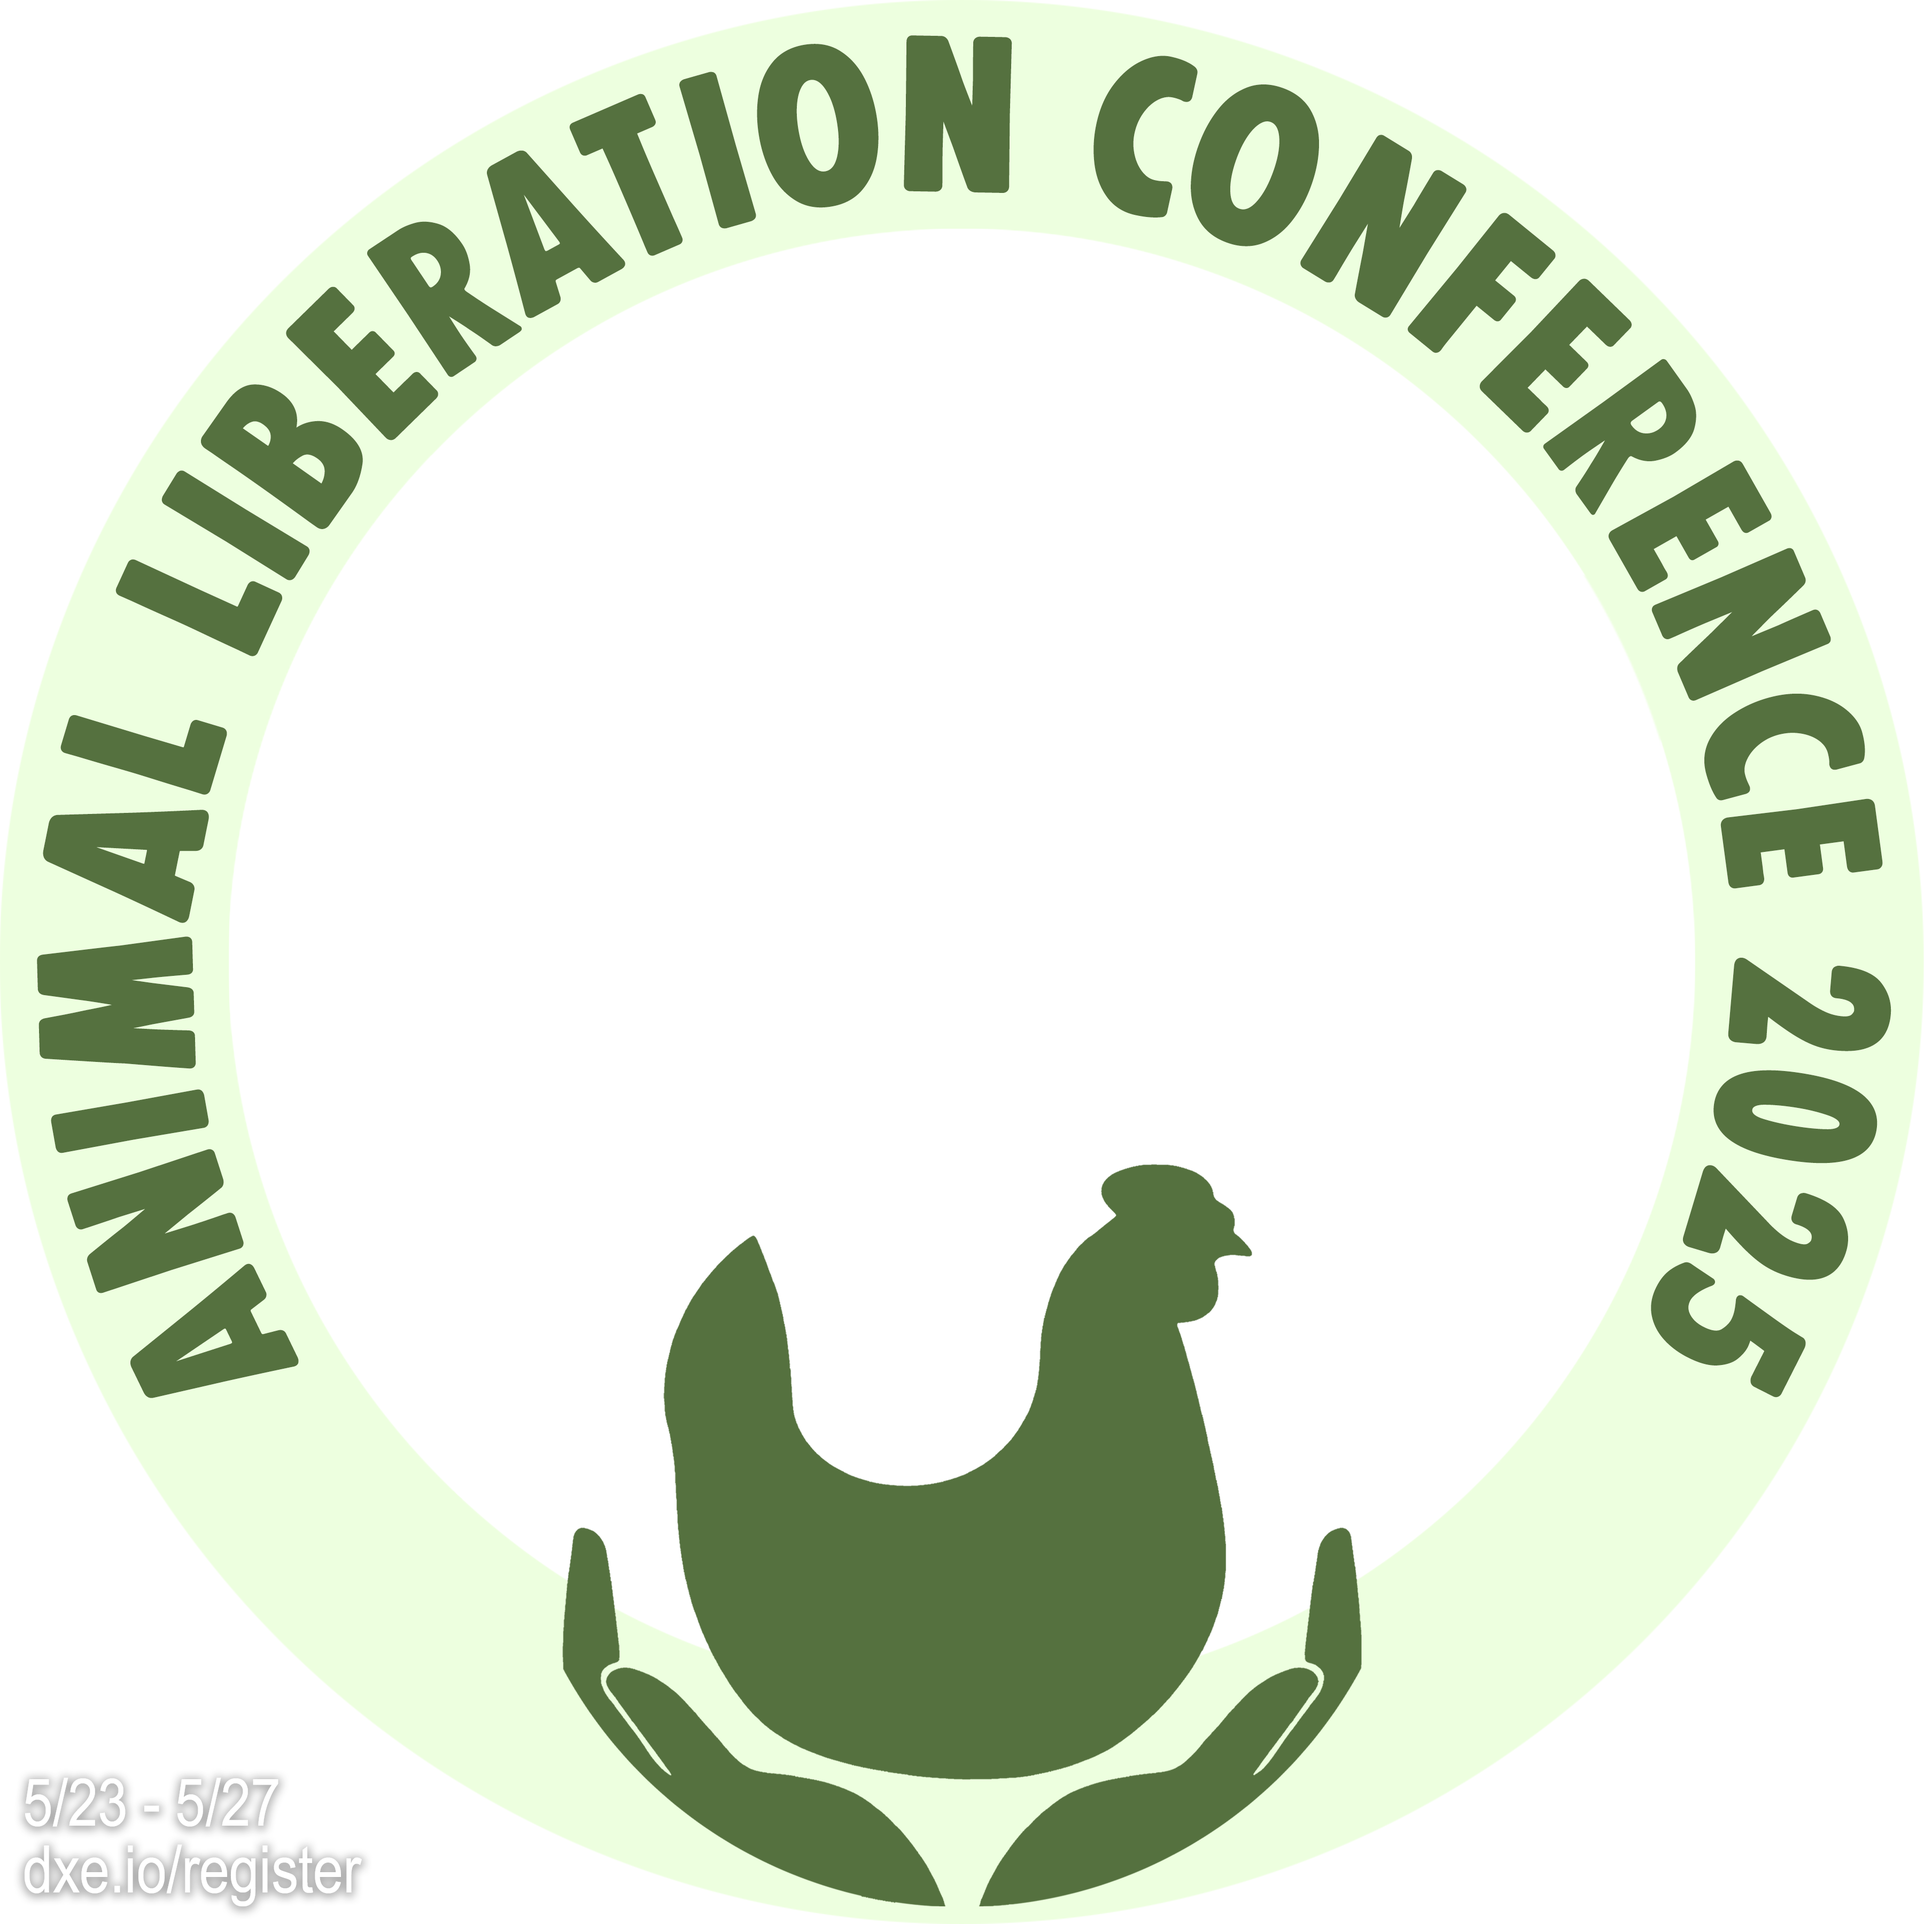
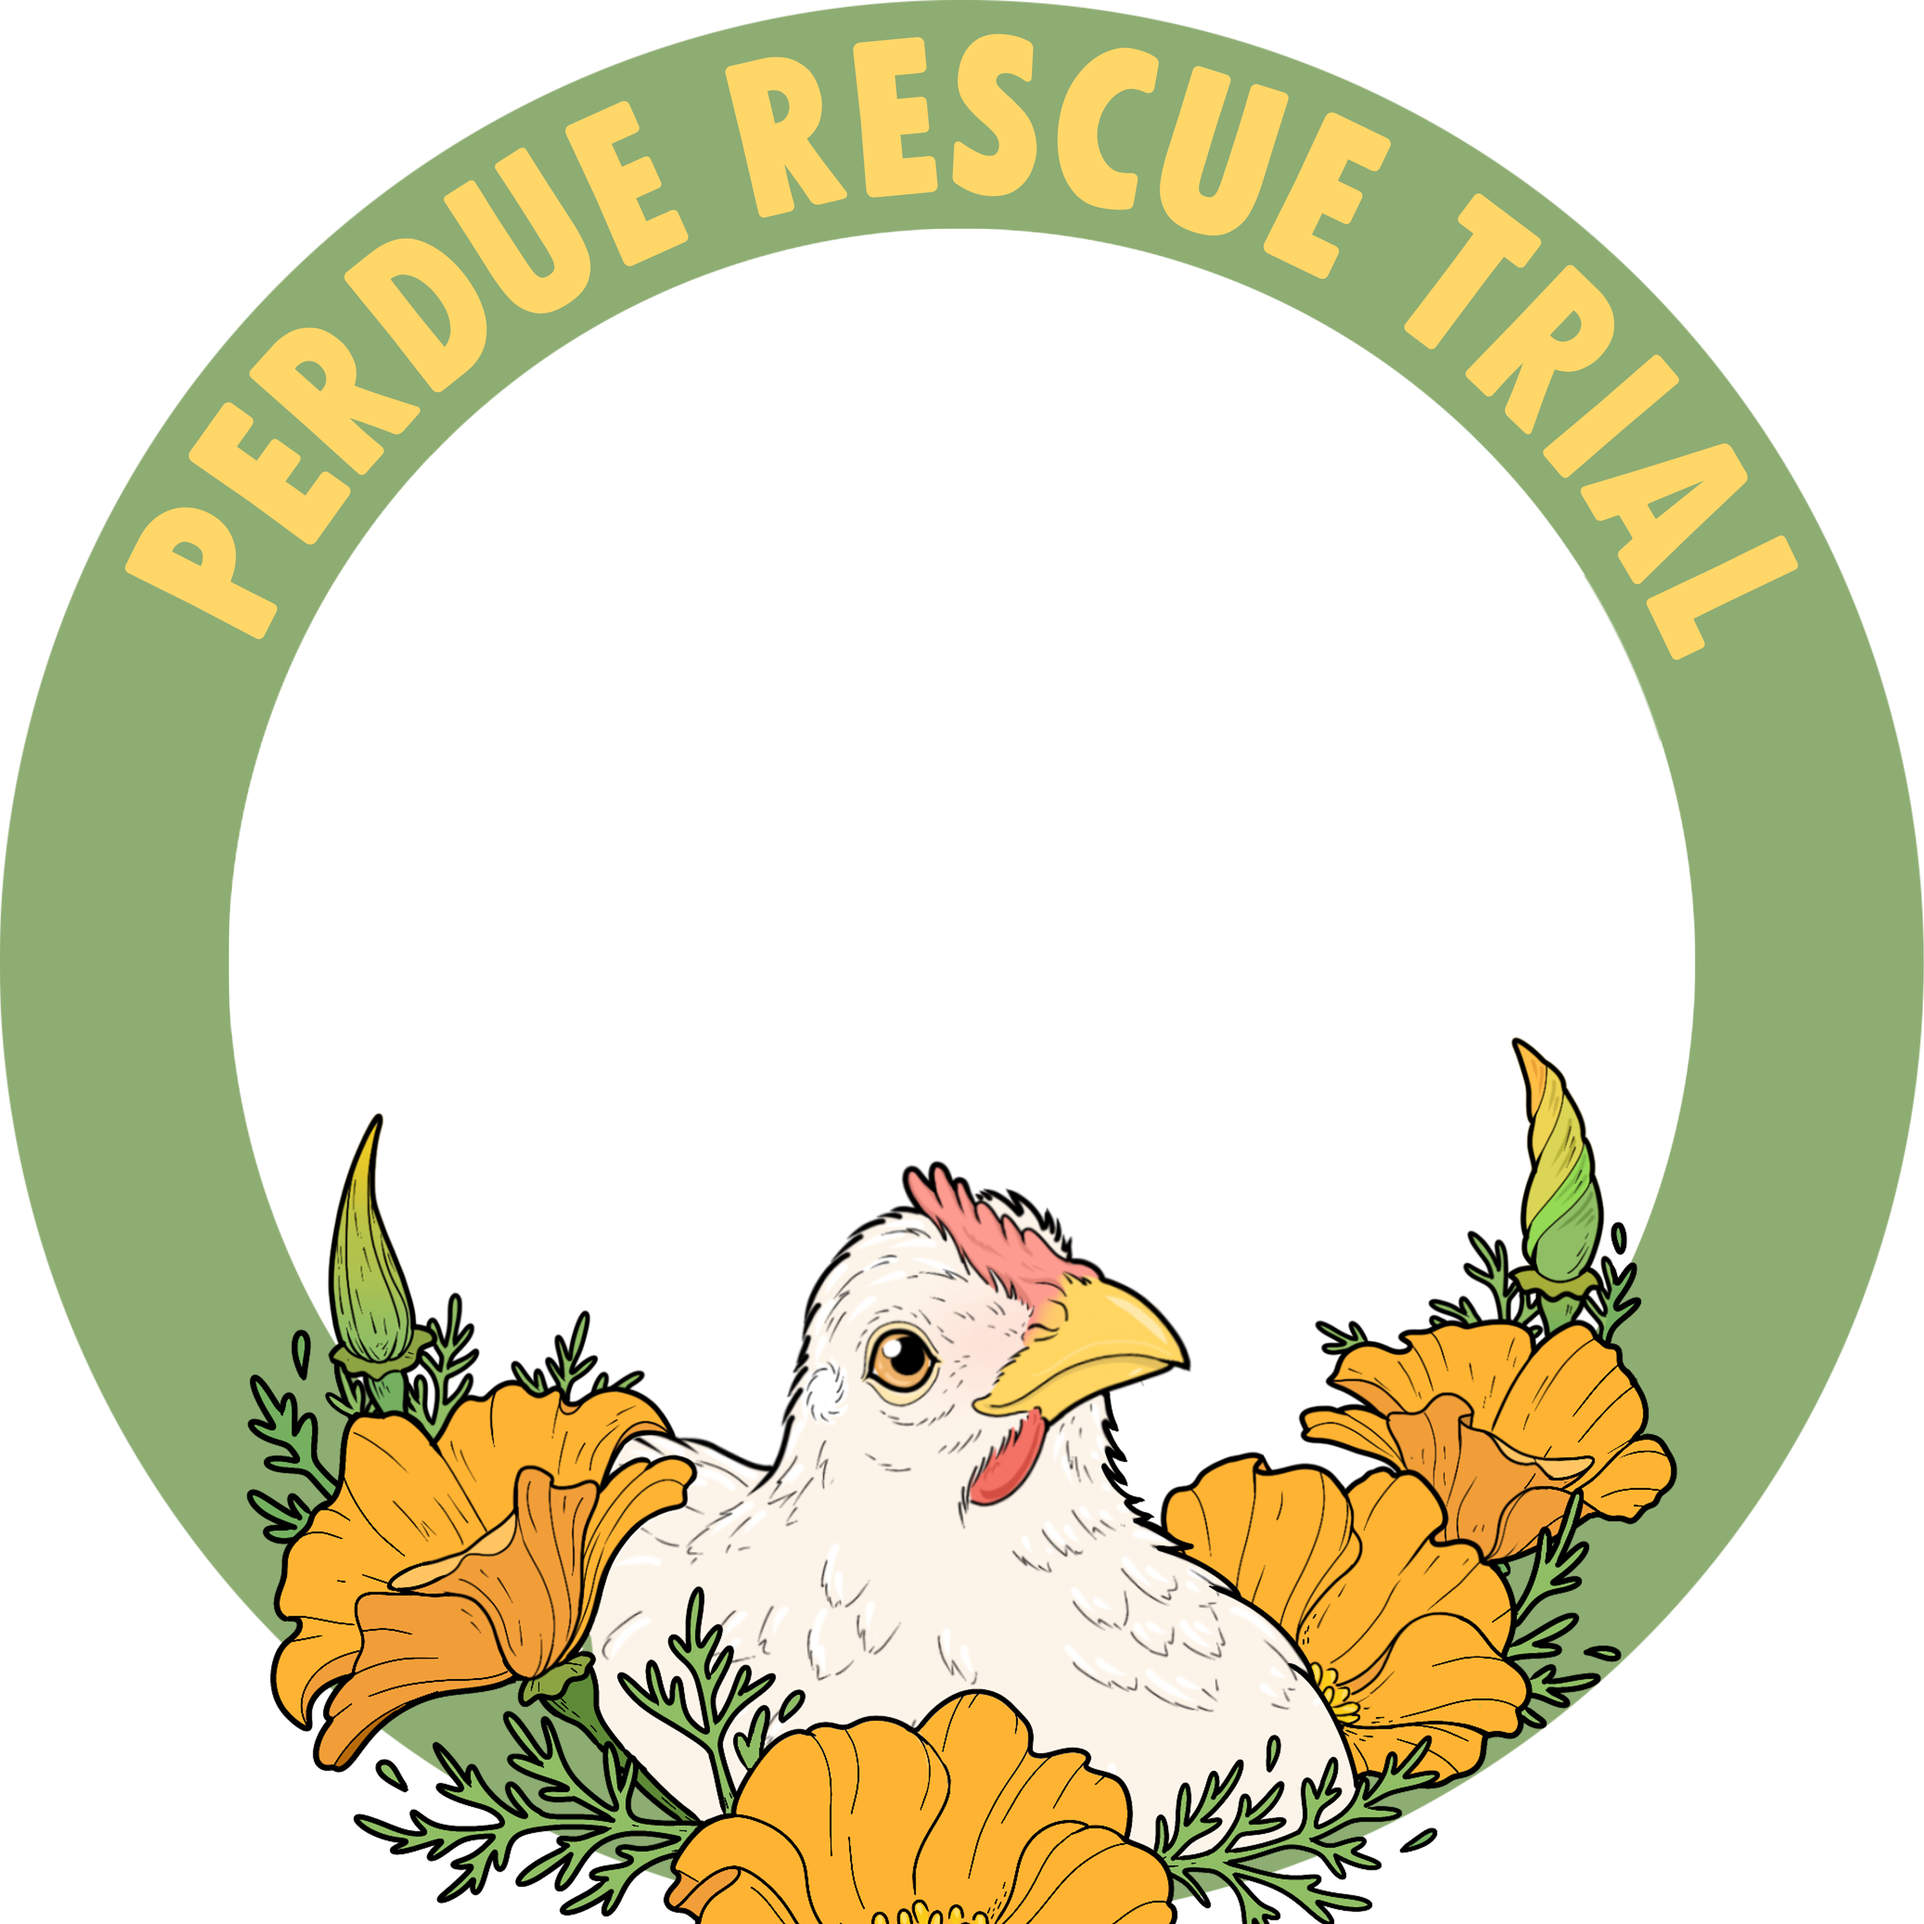
Set to Perdue Trial frame and upgrade to Ruby 3.4

diff --git a/_includes/steps.html b/_includes/steps.html
@@ -27,7 +27,7 @@
             {% for image in site.static_files %}
                 {% if image.path contains 'previews/' %}
                     {% assign imagepath = image.path | split: "/" | last %}
-                    <img id="frame-{{ image.basename | split: '-' | last }}" class="object-contain w-full max-w-6 rounded-full border-2 border-gray-100 inline-block shadow-xl transition duration-300 ease-in-out cursor-pointer hover:border-primary" src="img/previews/{{ image.name }}?v=6" alt="">
+                    <img id="frame-{{ image.basename | split: '-' | last }}" class="object-contain w-full max-w-6 rounded-full border-2 border-gray-100 inline-block shadow-xl transition duration-300 ease-in-out cursor-pointer hover:border-primary" src="img/previews/{{ image.name }}?v=7" alt="">
                 {% endif %}
             {% endfor %}
         </div>

diff --git a/src/js/main.js b/src/js/main.js
@@ -55,7 +55,7 @@ document.addEventListener("DOMContentLoaded", function(){
       'object:rotating': updateControls,
     });
 
-    canvas.setOverlayImage("{{ 'img/frames/frame-1.png?v=6' }}" , function() {
+    canvas.setOverlayImage("{{ 'img/frames/frame-1.png?v=7' }}" , function() {
         canvas.overlayImage.scaleToWidth(canvas.getWidth())
         canvas.renderAll()
       }, {
@@ -130,7 +130,7 @@ document.addEventListener("DOMContentLoaded", function(){
   {% for image in site.static_files %}
       {% if image.path contains 'frames/' %}
           document.getElementById("{{ image.basename }}").addEventListener("click", function (){
-            changeFrame(canvas, '{{ image.path }}?v=6');
+            changeFrame(canvas, '{{ image.path }}?v=7');
           });
       {% endif %}
   {% endfor %}

diff --git a/_includes/head.html b/_includes/head.html
@@ -3,7 +3,7 @@
   <meta name="viewport" content="width=device-width, initial-scale=1, shrink-to-fit=no" />
 
   <link rel="stylesheet" href="dist/css/styles.css" />
-  <script src="dist/js/bundle.js?v=6"></script>
+  <script src="dist/js/bundle.js?v=7"></script>
 
   <title>{{ site.title }}</title>
   <meta name="description" content="{{ site.description }}">

diff --git a/README-DxE.md b/README-DxE.md
@@ -12,6 +12,8 @@ instructions for deploying to AWS S3.
 
 ```bash
 # Remember to update cachebust args!
+pnpm install # only needed first time
+bundle install # only needed first time
 jekyll build
 pnpm run build
 cd ../static-s3/

diff --git a/README.md b/README.md
@@ -22,6 +22,7 @@ Before using avatar-framer, you must ensure that Node.js and Jekyll are installe
 3. Install dependancies:
 ```
 pnpm install
+bundle install
 ```
 
 ### Usage - Generate your site
